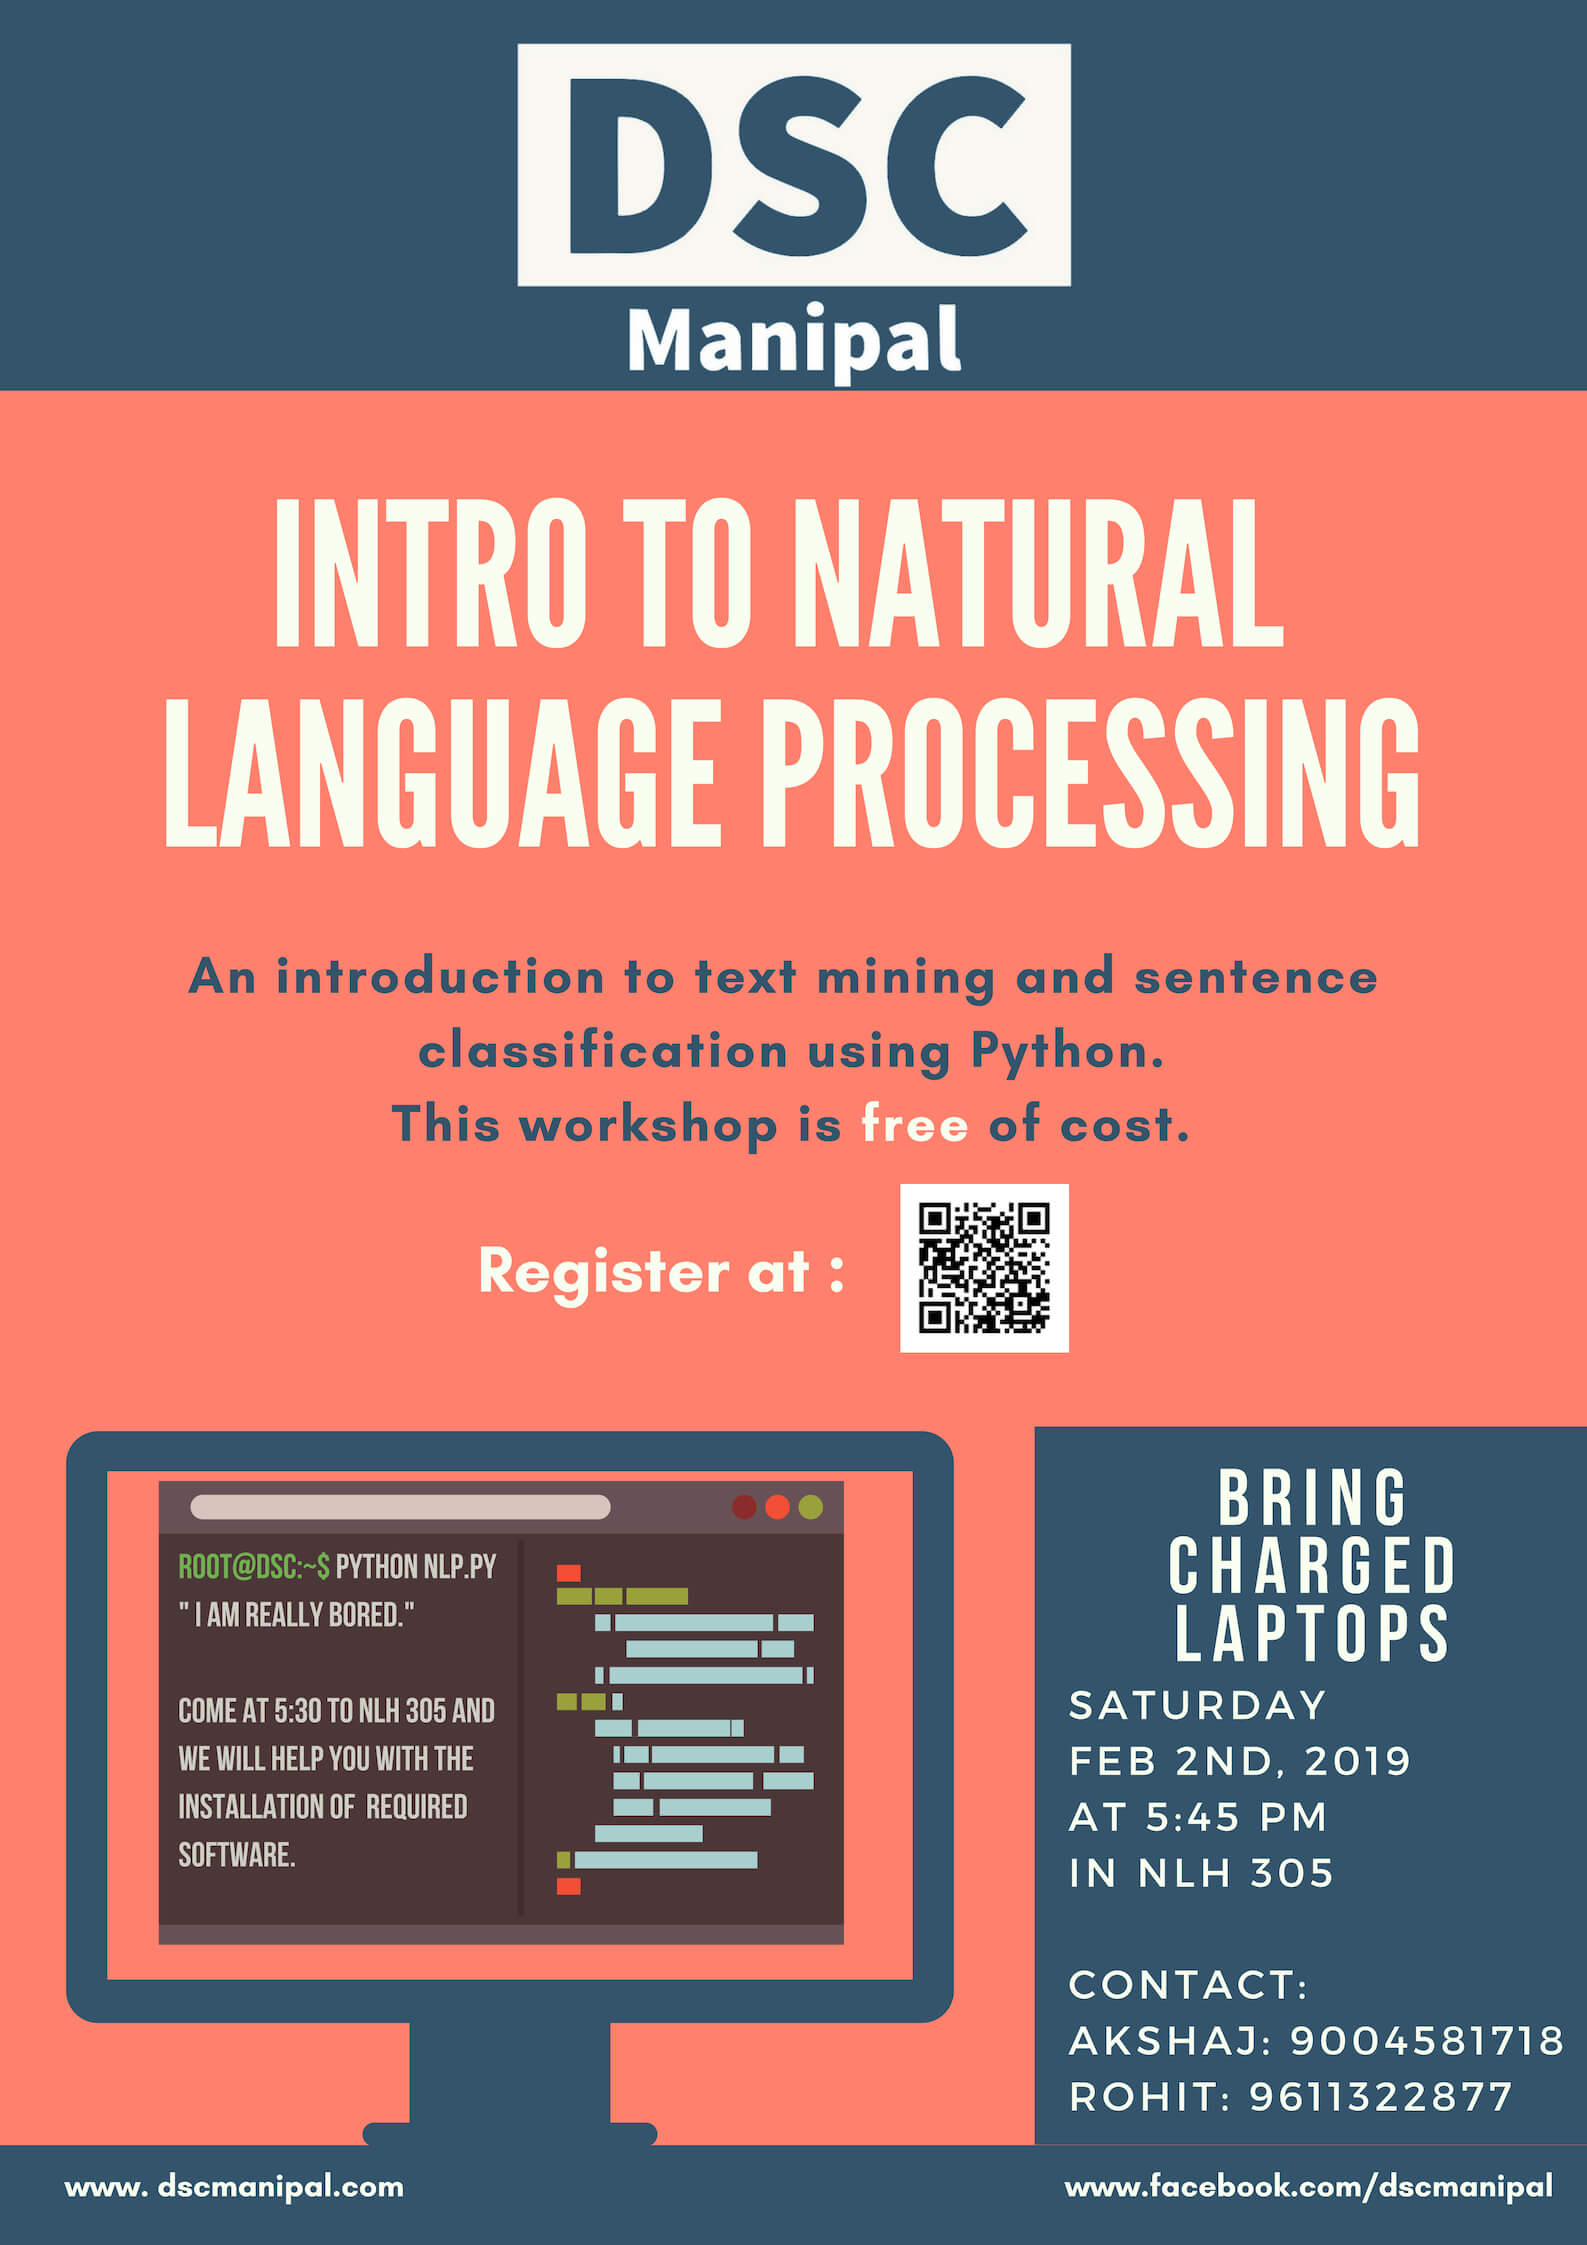
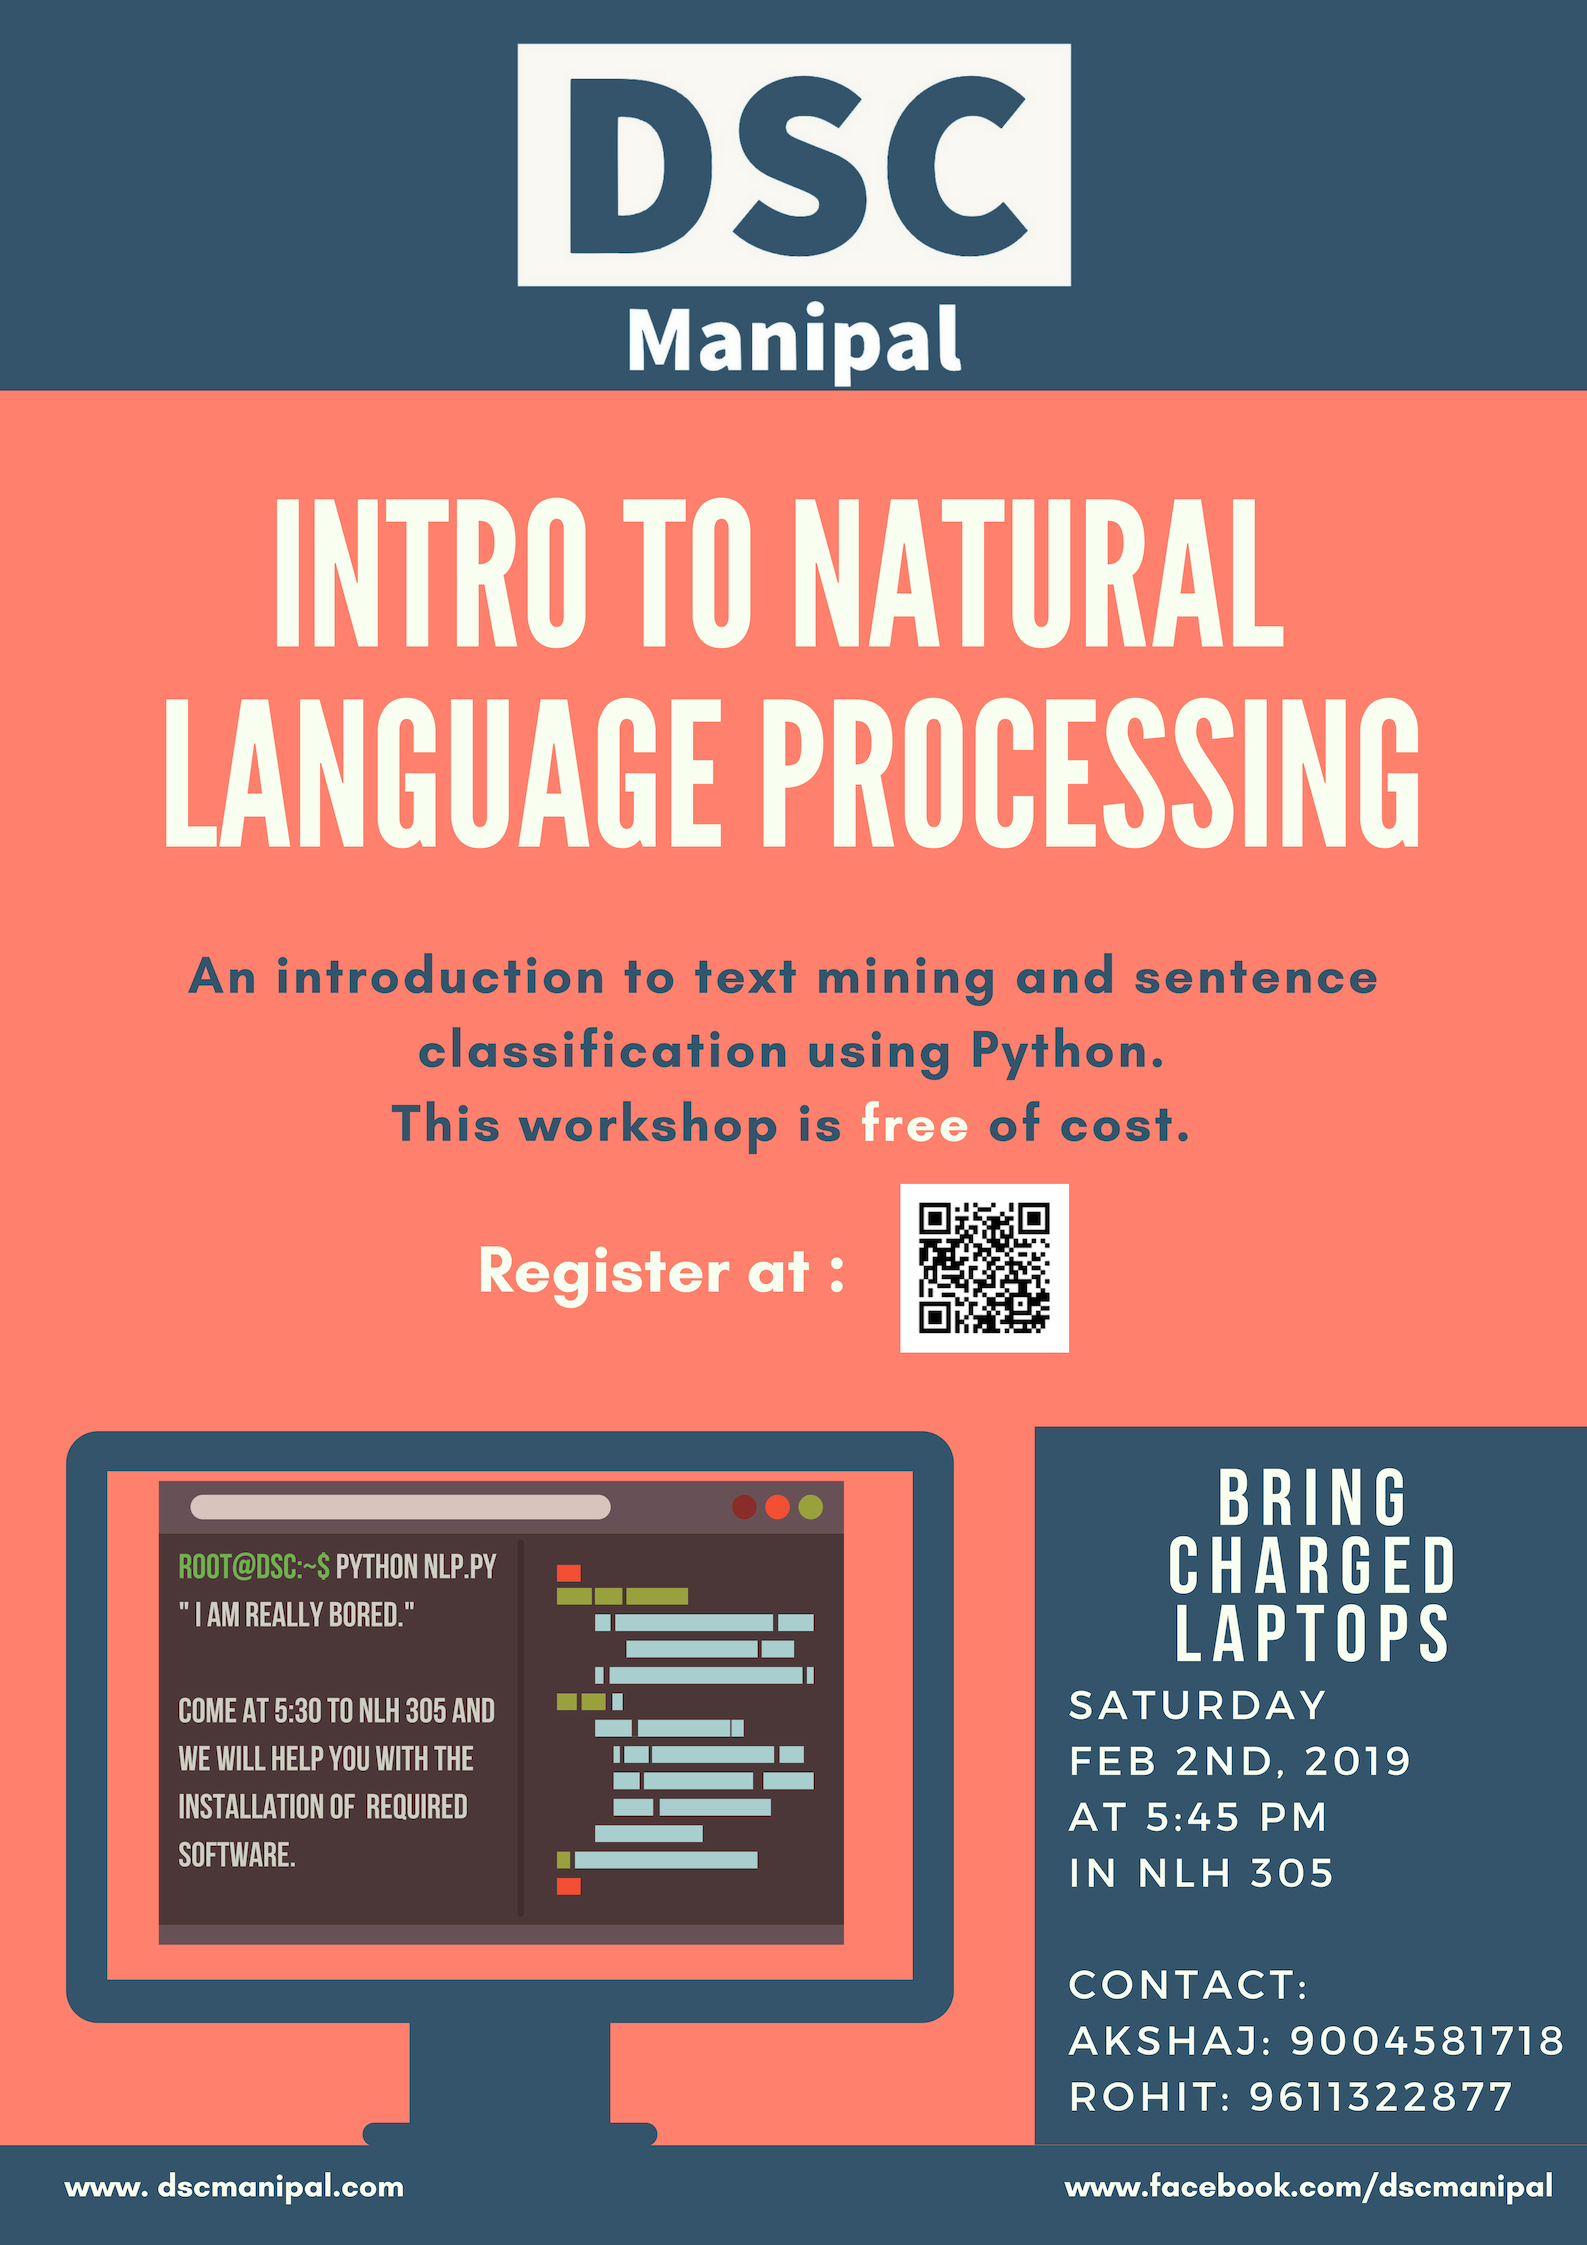
removed akshaj phone number

Changed region(s): [[0.8954, 0.9042, 0.9263, 0.9354], [0.6793, 0.9042, 0.7101, 0.9354]]

diff --git a/index.html b/index.html
@@ -726,7 +726,7 @@
                     <div class="cinfo">
                         <h6>Call Us At</h6>
                         <p>
-                            Akshaj: +91 9004581718<br> Rohit: +91 9611322877
+                            Rohit: +91 9611322877<br>Niraj: +91 8850282965<br> 
 
 
 
